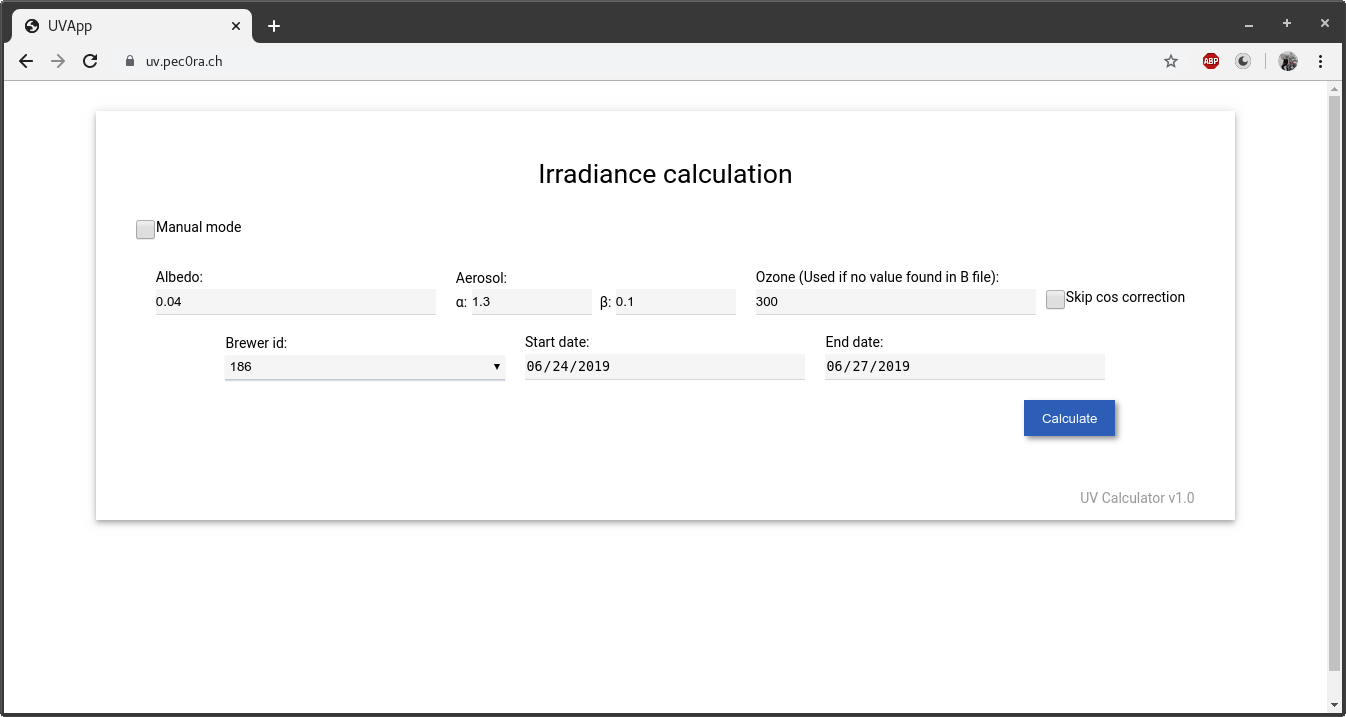
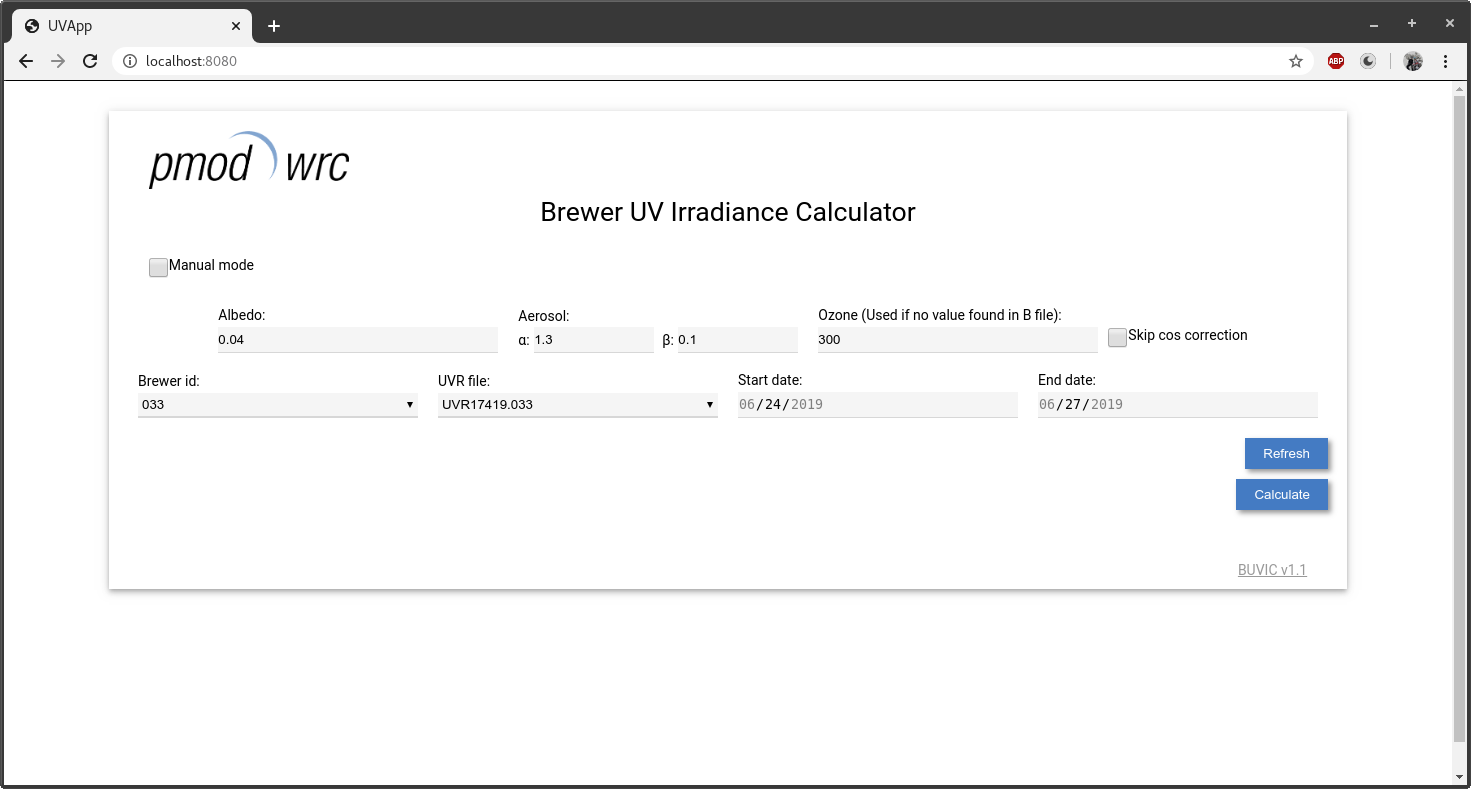
Rename to buvic and some minor fixes

diff --git a/installer.py b/installer.py
@@ -130,8 +130,8 @@ def run_installer():
         container_name = prev_config[CONTAINER_NAME_KEY]
         print(f" Using container name {container_name}")
     else:
-        print("* Docker container name (the local name for the container - Default: uv-server):")
-        container_name = input_check(check_container_name, default_value="uv-server")
+        print("* Docker container name (the local name for the container - Default: buvic):")
+        container_name = input_check(check_container_name, default_value="buvic")
         print()
 
     if INPUT_PATH_KEY in prev_config:
@@ -176,7 +176,7 @@ def run_installer():
         darksky_token = input_check(check_darksky_token, none_default=True)
     print()
 
-    link = "https://registry.hub.docker.com/v1/repositories/pec0ra/uv-server/tags"
+    link = "https://registry.hub.docker.com/v1/repositories/pmodwrc/buvic/tags"
     with urllib.request.urlopen(link) as url:
         data = json.loads(url.read().decode())
 
@@ -192,8 +192,8 @@ def run_installer():
 
     if version == ":latest":
         must_pull = True
-    elif not check_command(f"docker image inspect pec0ra/uv-server{version} >/dev/null 2>&1 || exit 1"):
-        print(f"* Docker image pec0ra/uv-server{version} does not exist locally")
+    elif not check_command(f"docker image inspect pmodwrc/buvic{version} >/dev/null 2>&1 || exit 1"):
+        print(f"* Docker image pmodwrc/buvic{version} does not exist locally")
         must_pull = True
     else:
         must_pull = False
@@ -201,7 +201,7 @@ def run_installer():
     if must_pull:
         print("* Pulling docker image")
         print(Colors.LIGHTGRAY, end='', flush=True)
-        result = call(["docker", "pull", f"pec0ra/uv-server{version}"])
+        result = call(["docker", "pull", f"pmodwrc/buvic{version}"])
         print(Colors.ENDC, end='', flush=True)
         if result != 0:
             p("ERROR: An error occurred while pulling image!", Colors.ERROR)
@@ -236,7 +236,7 @@ def run_installer():
     if darksky_token is not None:
         docker_command.extend([f"-e DARKSKY_TOKEN={darksky_token}"])
 
-    docker_command.extend(["-e PORT=4444", f"--name {container_name}", f"pec0ra/uv-server{version}"])
+    docker_command.extend(["-e PORT=4444", f"--name {container_name}", f"pmodwrc/buvic{version}"])
     print(" ".join(docker_command))
     print(Colors.LIGHTGRAY, end='', flush=True)
     result = run(" ".join(docker_command), shell=True)

diff --git a/uv/logic/calculation_utils.py b/uv/logic/calculation_utils.py
@@ -222,10 +222,10 @@ class CalculationUtils:
         uv_file = "UV" + days + year + "." + brewer_id
         b_file = "B" + days + year + "." + brewer_id
         arf_file = "arf_" + brewer_id + ".dat"
-        info = get_brewer_info(brewer_id)
         if uvr_file is not None:
             calibration_file = uvr_file
         else:
+            info = get_brewer_info(brewer_id)
             calibration_file = info.uvr_file_name
         parameter_file = year + ".par"
 
@@ -236,23 +236,22 @@ class CalculationUtils:
 
         b_file_path = path.join(self._input_dir, B_FILES_SUBDIR, b_file)
         if not path.exists(b_file_path):
-            LOG.debug(
-                "Corresponding B file '" + str(b_file_path) + "' not found for UV file '" + uv_file + "', will use default ozone values")
+            LOG.warning("Corresponding B file '" + str(b_file_path) + "' not found for UV file '" + uv_file + "', will use default ozone "
+                        "values and straylight correction will be applied as default")
 
         calibration_file_path = path.join(self._input_dir, CALIBRATION_FILES_SUBDIR, calibration_file)
         if not path.exists(calibration_file_path):
-            LOG.info("Corresponding UVR file '" + str(calibration_file_path) + "' not found for UV file '" + uv_file + "', skipping")
+            LOG.warning("Corresponding UVR file '" + str(calibration_file_path) + "' not found for UV file '" + uv_file + "', skipping")
             return None
 
         arf_file_path = path.join(self._input_dir, ARF_FILES_SUBDIR, arf_file)
         if not path.exists(arf_file_path):
-            LOG.info("Corresponding ARF file '" + str(arf_file_path) + "' not found for UV file '" + uv_file + "', skipping")
-            return None
+            LOG.warning("ARF file was not found for UV file '" + uv_file + "', cos correction will not be applied")
+            arf_file_path = None
 
         parameter_file_path = path.join(self._input_dir, PARAMETER_FILES_SUBDIR, parameter_file)
-        if not path.exists(arf_file_path):
-            LOG.info("Corresponding Parameter file '" + str(parameter_file_path) + "' not found for UV file '" + uv_file + "', skipping")
-            return None
+        if not path.exists(parameter_file_path):
+            parameter_file_path = None
 
         # If everything is ok, return a calculation input
         return CalculationInput(

diff --git a/uv/logic/file_utils.py b/uv/logic/file_utils.py
@@ -54,15 +54,8 @@ class FileUtils:
             if res is not None:
                 brewer_id = res.group("brewer_id")
                 if brewer_id not in self._file_dict:
-                    LOG.warning(f"No arf file exists for brewer id {brewer_id}, skipping")
-                    continue
+                    self._file_dict[brewer_id] = InstrumentFiles(None)
                 self._file_dict[brewer_id].uvr_files.append(file_name)
-
-        for brewer_id, instrument_files in list(self._file_dict.items()):
-            # Remove the instruments without UVR files
-            if len(instrument_files.uvr_files) == 0:
-                LOG.warning(f"No UVR file exists for brewer id {brewer_id}, skipping")
-                del self._file_dict[brewer_id]
 
         for file_name in listdir(self._uvdata_dir):
             # UV file names are like `UV12319.070`
@@ -72,8 +65,7 @@ class FileUtils:
                 year = res.group("year")
                 brewer_id = res.group("brewer_id")
                 if brewer_id not in self._file_dict:
-                    LOG.warning(f"No arf file exists for brewer id {brewer_id}, skipping")
-                    continue
+                    self._file_dict[brewer_id] = InstrumentFiles(None)
 
                 b_file = "B" + days + year + "." + brewer_id
                 b_file_path = join(self._uvdata_dir, b_file)
@@ -81,6 +73,16 @@ class FileUtils:
                     self._file_dict[brewer_id].uv_files_combinations.append(UVFileCombo(file_name, b_file))
                 else:
                     self._file_dict[brewer_id].uv_files_combinations.append(UVFileCombo(file_name, None))
+
+        for brewer_id, instrument_files in list(self._file_dict.items()):
+            if len(instrument_files.uvr_files) == 0:
+                # Remove the instruments without UVR files
+                LOG.warning(f"No UVR file exists for brewer id {brewer_id}, skipping")
+                del self._file_dict[brewer_id]
+            elif len(instrument_files.uv_files_combinations) == 0:
+                # Remove the instruments without UV files
+                LOG.warning(f"No UV file exists for brewer id {brewer_id}, skipping")
+                del self._file_dict[brewer_id]
 
     def get_brewer_ids(self) -> List[str]:
         return sorted(self._file_dict.keys())

diff --git a/uv/app.py b/uv/app.py
@@ -13,7 +13,7 @@ from uv.logic.calculation_input import CalculationInput
 from uv.logic.calculation_utils import CalculationUtils
 from uv.logic.file_utils import FileUtils
 from uv.logic.result import Result
-from .const import OUTPUT_DIR, DATA_DIR, APP_VERSION
+from .const import OUTPUT_DIR, DATA_DIR, APP_VERSION, ASSETS_DIR
 from .gui.utils import show, hide
 from .gui.widgets import Title, Level, Loader, PathMainForm, SimpleMainForm, ResultWidget, ExtraParamForm
 
@@ -31,7 +31,7 @@ class UVApp(App):
     _lock = multiprocessing.Manager().Lock()
 
     def __init__(self, *args):
-        super(UVApp, self).__init__(*args, static_file_path={'plots': OUTPUT_DIR, 'res': 'assets/'})
+        super(UVApp, self).__init__(*args, static_file_path={'plots': OUTPUT_DIR, 'res': ASSETS_DIR})
 
         # Some tweaking for matplotlib
         rcParams.update({'figure.autolayout': True})
@@ -80,7 +80,7 @@ class UVApp(App):
 
         self._main_container.append(self._result_container)
 
-        version = gui.Link("https://github.com/pec0ra/buvic", f"BUVIC {APP_VERSION}",
+        version = gui.Link("https://hub.docker.com/repository/docker/pmodwrc/buvic", f"BUVIC {APP_VERSION}",
                            style="color: #999; align-self: flex-end; margin-top: 30px")
         self._main_container.append(version)
 

diff --git a/uv/logic/calculation_input.py b/uv/logic/calculation_input.py
@@ -42,7 +42,9 @@ class CalculationInput:
         return read_calibration_file(self.calibration_file_name)
 
     @threaded_cached_property
-    def arf(self) -> ARF:
+    def arf(self) -> ARF or None:
+        if self.arf_file_name is None:
+            return None
         return read_arf_file(self.arf_file_name, self.arf_direction)
 
     @threaded_cached_property
@@ -62,7 +64,7 @@ class CalculationInput:
             return get_cloud_cover(position.latitude, position.longitude, date)
 
     def cos_correction_to_apply(self, time: float) -> CosCorrection:
-        if self.input_parameters.no_coscor:
+        if self.input_parameters.no_coscor or self.arf is None:
             return CosCorrection.NONE
         elif self.cloud_cover.is_diffuse(time):
             return CosCorrection.DIFFUSE

diff --git a/uv/logic/b_file.py b/uv/logic/b_file.py
@@ -41,7 +41,6 @@ def read_b_file(file_name: str) -> BFile:
     """
 
     if file_name is None or not path.exists(file_name):
-        LOG.warning("B File not found. Using default ozone value and applying straylight correction.")
         return BFile([], [])
 
     LOG.debug("Parsing file: %s", file_name)

diff --git a/uv/const.py b/uv/const.py
@@ -3,6 +3,7 @@ import os
 TMP_FILE_DIR = "tmp/"
 OUTPUT_DIR = "out/"
 DATA_DIR = "data/"
+ASSETS_DIR = "assets/"
 
 UV_FILES_SUBDIR = "uvdata/"
 B_FILES_SUBDIR = "uvdata/"

diff --git a/README.md b/README.md
@@ -1,16 +1,15 @@
-# UV irradiance calculations
+# Brewer UV Irradiance Calculation
 
-
-This repository contains a set of tools to calculate the cosine corrected irradiance from raw UV measurements.
+This repository contains a set of tools to calculate the cosine corrected irradiance from brewer raw UV measurements.
 
 ## Table of content
 <!--ts-->
-   * [UV irradiance calculations](#uv-irradiance-calculations)
+   * [Brewer UV Irradiance Calculation](#brewer-uv-irradiance-calculation)
       * [Table of content](#table-of-content)
       * [Requirements](#requirements)
          * [Directory structure](#directory-structure)
          * [File formats](#file-formats)
-      * [UV Web Application](#uv-web-application)
+      * [BUVIC Web Application](#buvic-web-application)
       * [Command Line App](#command-line-app)
          * [1. Calculate dates and brewer id](#1-calculate-dates-and-brewer-id)
          * [2. Calculate for given files](#2-calculate-for-given-files)
@@ -19,14 +18,14 @@ This repository contains a set of tools to calculate the cosine corrected irradi
       * [Installer](#installer)
       * [Releases](#releases)
       * [Docker](#docker)
-         * [1. UV Server](#1-uv-server)
+         * [1. BUVIC](#1-buvic)
          * [2. UV Watch](#2-uv-watch)
       * [Implementation](#implementation)
          * [1. User Interface](#1-user-interface)
          * [2. Job creation / handling](#2-job-creation--handling)
          * [3. Calculations](#3-calculations)
 
-<!-- Added by: basile, at: Mi Dez 11 10:16:30 CET 2019 -->
+<!-- Added by: basile, at: Do Dez 12 17:10:50 CET 2019 -->
 
 <!--te-->
 
@@ -142,9 +141,9 @@ Here is an example of a (truncated) qasume file `1751130G.117`:
 
 
 
-## UV Web Application
+## BUVIC Web Application
 
-UV Web Application is a small application running in the browser to facilitate the execution of irradiance calculation.
+BUVIC Web Application is a small application running in the browser to facilitate the execution of irradiance calculation.
 
 It offers the possibility to choose dates and a brewer id to automatically find the measurement files from a predefined set or to manually upload measurement files (manual mode).
 
@@ -158,7 +157,7 @@ python run.py
 ```
 The application should automatically open in the browser.
 
-Alternatively (and the recommended way), you can use the docker image as described in [the docker section](#1-uv-server).
+Alternatively (and the recommended way), you can use the docker image as described in [the docker section](#1-buvic).
 
 ## Command Line App
 
@@ -324,12 +323,12 @@ Alternatively, you can run the script `release.py` which will do these steps aut
 ## Docker
 
 Two docker images are available for calculations:
-1. `pec0ra/uv-server`: A small web app to help launching calculations
+1. `pmodwrc/buvic`: A small web app to help launching calculations
 2. `pec0ra/uv-watch`: A watchdog to automatically execute the calculations when files are changed in a directory
 
-### 1. UV Server
+### 1. BUVIC
 
-This docker image contains the [UV Web Application](#uv-web-application)
+This docker image contains the [UV Web Application](#buvic-web-application)
 
 **Instructions:**
 
@@ -337,14 +336,14 @@ See the [Installer section](#installer) for an easier way to run this docker ima
 
 To build this image, run:
 ```
-docker build -f Dockerfile.server . -t pec0ra/uv-server
+docker build -f Dockerfile.server . -t pmodwrc/buvic
 ```
-Note that the tag `pec0ra/uv-server` can be replaced with another custom tag
+Note that the tag `pmodwrc/buvic` can be replaced with another custom tag
 
 
 To start a docker container, run:
 ```
-docker run -d -p <PORT>:80 --name uv-server pec0ra/uv-server
+docker run -d -p <PORT>:80 --name buvic pmodwrc/buvic
 ```
 Where `<PORT>` is the port on which the web app will listen (e.g. 8080).
 
@@ -356,12 +355,12 @@ If you want [darksky](https://darksky.net/dev) to be used, you will need to crea
 This can be done by adding the parameter `-e DARKSKY_TOKEN=your_darksky_token`.
 Example:
 ```
-docker run -d -p <PORT>:80 -e DARKSKY_TOKEN=your_darksky_token --name uv-server pec0ra/uv-server
+docker run -d -p <PORT>:80 -e DARKSKY_TOKEN=your_darksky_token --name buvic pmodwrc/buvic
 ```
 
 If you want to use a custom directory as a source for measurement files and/or for output files, you can mount the container's `/data` and `/out` as volumes:
 ```
-docker run -d -p <PORT>:80 -v <MEASUREMENT_PATH>:/data -v <OUT_PATH>:/out --user $(id -u):$(id -g) --name uv-server pec0ra/uv-server
+docker run -d -p <PORT>:80 -v <MEASUREMENT_PATH>:/data -v <OUT_PATH>:/out --user $(id -u):$(id -g) --name buvic pmodwrc/buvic
 ```
 where `<MEASUREMENT_PATH>` is the *absolute* path to your measurement and `<OUT_PATH>` is the *absolute* path to the directory you want to save the outputs in.
 
